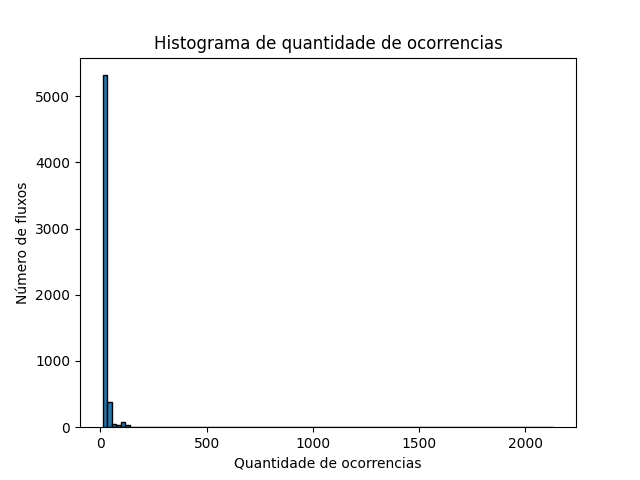
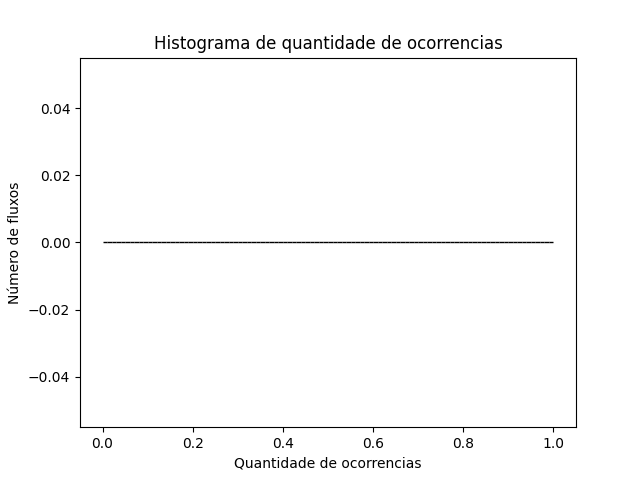
feat: gráficos e estudos

diff --git a/AvaliadorFluxo/FluxosAnalisadorSamePort.py b/AvaliadorFluxo/FluxosAnalisadorSamePort.py
@@ -4,7 +4,7 @@ import time
 import matplotlib.pyplot as plt
 
 PATH_TSHARK = "C:/Program Files/Wireshark/tshark.exe"
-PATH_PCAP = 'Datasets/Pcaps/equinix-nyc.dirA.20190117-130000.UTC.anon.pcap'
+PATH_PCAP = 'Datasets/Pcaps/201904091200.pcap'
 ARQUIVO_FLUXOS = "AvaliadorFluxo/Saida/Fluxos.txt"
 ARQUIVO_FLUXOS_ORDENADOS = "AvaliadorFluxo/Saida/FluxosOrdenados.txt"
 ARQUIVO_SAIDA = "AvaliadorFluxo/Saida/Avaliacao.txt"
